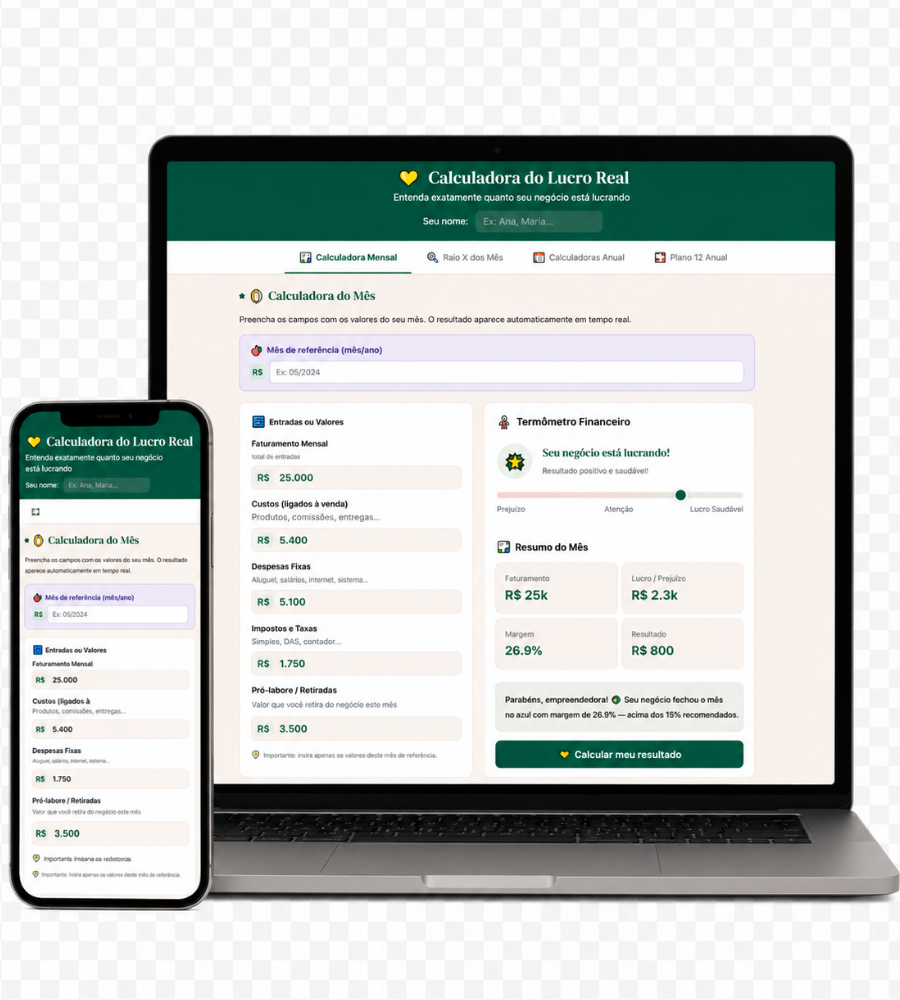
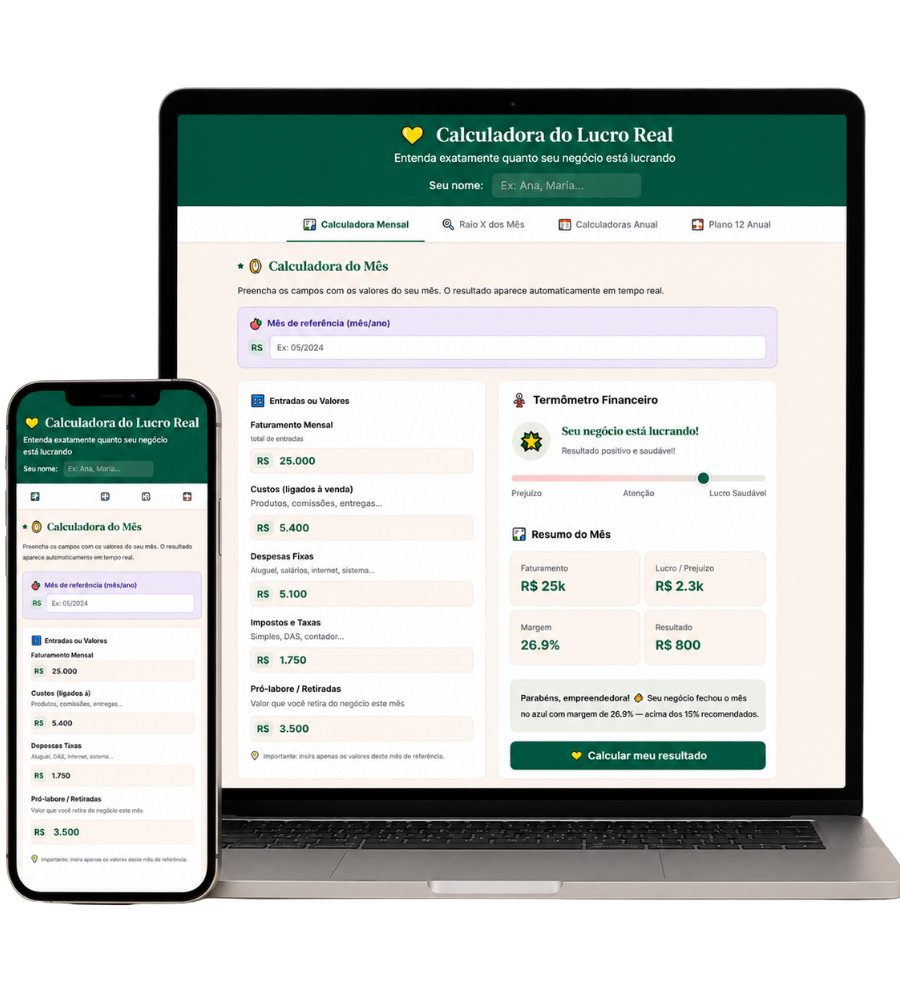
Atualiza layout hero desktop, corrige imagens faltantes e ajusta mobile

Changed region(s): [[0.0, 0.062, 1.0, 0.93], [0.8089, 0.372, 0.84, 0.403]]

diff --git a/index.html b/index.html
@@ -105,19 +105,18 @@
         radial-gradient(at 15% 30%, rgba(200,182,226,0.14) 0%, transparent 55%),
         radial-gradient(at 85% 70%, rgba(31,122,99,0.3) 0%, transparent 55%);
       color: #fff;
-      padding: 80px 24px 72px;
+      padding: 48px 24px 44px;
     }
 
     .hero-inner {
-      display: grid;
-      grid-template-columns: 1fr 1fr;
-      gap: 48px;
+      display: flex;
+      flex-direction: column;
       align-items: center;
-      max-width: 1100px;
+      max-width: 860px;
       margin: 0 auto;
     }
 
-    .hero-texto { display: flex; flex-direction: column; align-items: flex-start; }
+    .hero-texto { display: flex; flex-direction: column; align-items: center; width: 100%; }
 
     .hero-tag {
       display: inline-block;
@@ -128,21 +127,22 @@
     }
 
     .hero h1 {
-      font-size: clamp(1.7rem, 3.5vw, 2.6rem); font-weight: 800;
+      font-size: clamp(2rem, 4vw, 3rem); font-weight: 800;
       line-height: 1.15; letter-spacing: -0.025em;
       margin: 0 0 1.2rem;
-      color: #fff; text-align: left;
+      color: #fff; text-align: center;
     }
     .hero h1 em { color: var(--lilas); font-style: normal; }
 
     .hero-sub {
-      font-size: 1rem; color: rgba(255,255,255,0.82);
-      line-height: 1.7; margin: 0 0 1.8rem; text-align: left;
+      font-size: 1.05rem; color: rgba(255,255,255,0.82);
+      line-height: 1.7; margin: 0 0 0.6rem; text-align: center;
+      max-width: 680px;
     }
 
     .hero-pitadas {
-      display: flex; flex-wrap: wrap; justify-content: flex-start; gap: 10px;
-      margin: 0 0 2rem;
+      display: flex; flex-wrap: wrap; justify-content: center; gap: 10px;
+      margin: 0 0 1.2rem;
     }
     .pitada {
       background: rgba(255,255,255,0.08); border: 1px solid rgba(255,255,255,0.16);
@@ -150,19 +150,23 @@
       padding: 6px 16px; border-radius: 100px;
     }
 
-    .hero-cta { display: flex; flex-direction: column; align-items: flex-start; gap: 12px; margin-bottom: 1.5rem; }
+    .hero-cta { display: flex; flex-direction: column; align-items: center; gap: 12px; margin-bottom: 1.5rem; }
     .hero-cta .btn-verde { animation: pulse 3.5s ease-in-out infinite; }
     .hero-nota { font-size: 0.78rem; color: rgba(255,255,255,0.5); }
 
     .hero-badges {
-      display: flex; flex-wrap: wrap; justify-content: flex-start; gap: 16px;
+      display: flex; flex-wrap: wrap; justify-content: center; gap: 16px;
       margin-top: 1.5rem; padding-top: 1.5rem; border-top: 1px solid rgba(255,255,255,0.1);
     }
     .hero-badge { display: flex; align-items: center; gap: 8px; font-size: 0.8rem; color: rgba(255,255,255,0.6); }
     .hero-badge-dot { width: 8px; height: 8px; border-radius: 50%; background: var(--lilas); flex-shrink: 0; }
 
     .hero-imagem { display: flex; align-items: center; justify-content: center; }
-    .hero-imagem img { width: 100%; max-width: 520px; display: block; filter: drop-shadow(0 24px 48px rgba(0,0,0,0.35)); }
+    .hero-imagem img { width: 100%; max-width: 100%; display: block; filter: drop-shadow(0 24px 48px rgba(0,0,0,0.35)); }
+    .hero-imagem-mobile { display: flex; justify-content: center; margin: 0.4rem 0 1.2rem; } /* visível no desktop */
+    .hero-imagem-mobile img { max-height: 400px; width: auto; max-width: 100%; }
+    .hero-imagem-desktop { display: none; } /* coluna lateral removida */
+    .hero-cta .btn { min-width: 440px; font-size: 1.25rem; padding: 22px 64px; }
 
     /* ======================================
        SEÇÃO 2: COMPARAÇÃO PRIMÁRIA
@@ -452,7 +456,7 @@
       overflow: hidden; box-shadow: var(--shadow);
     }
     /* INSTRUÇÃO: para usar os screenshots reais, substitua o conteúdo .dep-bubble por uma tag
-       <img src="dep-graciela.jpg" alt="Depoimento Graciela" style="width:100%">
+       <img src="dep-graciela.jpeg" alt="Depoimento Graciela" style="width:100%">
        e salve as imagens na mesma pasta que este arquivo HTML. */
     .dep-bubble {
       padding: 20px 22px; background: #fff;
@@ -629,15 +633,17 @@
     /* RESPONSIVO */
     @media (max-width: 768px) {
       section { padding: 64px 16px; }
-      .hero { padding: 72px 16px 64px; }
-      .hero-inner { grid-template-columns: 1fr; gap: 32px; }
+      .hero { padding: 48px 16px 40px; }
+      .hero-inner { grid-template-columns: 1fr; }
+      .hero-imagem-desktop { display: none; }
+      .hero-imagem-mobile { display: flex; justify-content: center; margin: 1rem 0; }
+      .hero-imagem-mobile img { max-height: 200px; width: auto; max-width: 100%; display: block; }
       .hero-texto { align-items: center; }
-      .hero h1 { text-align: center; }
-      .hero-sub { text-align: center; }
-      .hero-pitadas { justify-content: center; }
-      .hero-cta { align-items: center; }
-      .hero-badges { justify-content: center; }
-      .hero-imagem img { max-width: 420px; }
+      .hero h1 { text-align: center; font-size: 1.6rem; }
+      .hero-sub { text-align: center; font-size: 0.92rem; margin-bottom: 0.5rem; }
+      .hero-pitadas { display: flex; flex-wrap: wrap; justify-content: center; order: 2; margin: 1rem 0 0; }
+      .hero-cta { align-items: center; order: 1; }
+      .hero-badges { display: none; }
       .comp-grid, .contas-grid, .gs-grid { grid-template-columns: 1fr; }
       .tab-row { grid-template-columns: 1fr; }
       .tab-cell.antes { border-right: none; border-bottom: 1px solid rgba(0,0,0,0.07); }
@@ -679,6 +685,11 @@
 
         <p class="hero-sub">A Calculadora do Lucro Real mostra exatamente para onde o dinheiro do seu negócio está indo e ajuda você a identificar os vazamentos que impedem seu lucro de crescer.</p>
 
+        <!-- Imagem apenas no mobile (aparece entre subheadline e botão) -->
+        <div class="hero-imagem hero-imagem-mobile">
+          <img src="hero-mockup.png" alt="Calculadora do Lucro Real no computador e celular">
+        </div>
+
         <div class="hero-pitadas">
           <span class="pitada">5 números revelam tudo</span>
           <span class="pitada">Diagnóstico automático</span>
@@ -702,8 +713,8 @@
         </div>
       </div>
 
-      <!-- Coluna direita: imagem mockup -->
-      <div class="hero-imagem">
+      <!-- Coluna direita: imagem mockup (só desktop) -->
+      <div class="hero-imagem hero-imagem-desktop">
         <img src="hero-mockup.png" alt="Calculadora do Lucro Real no computador e celular">
       </div>
 